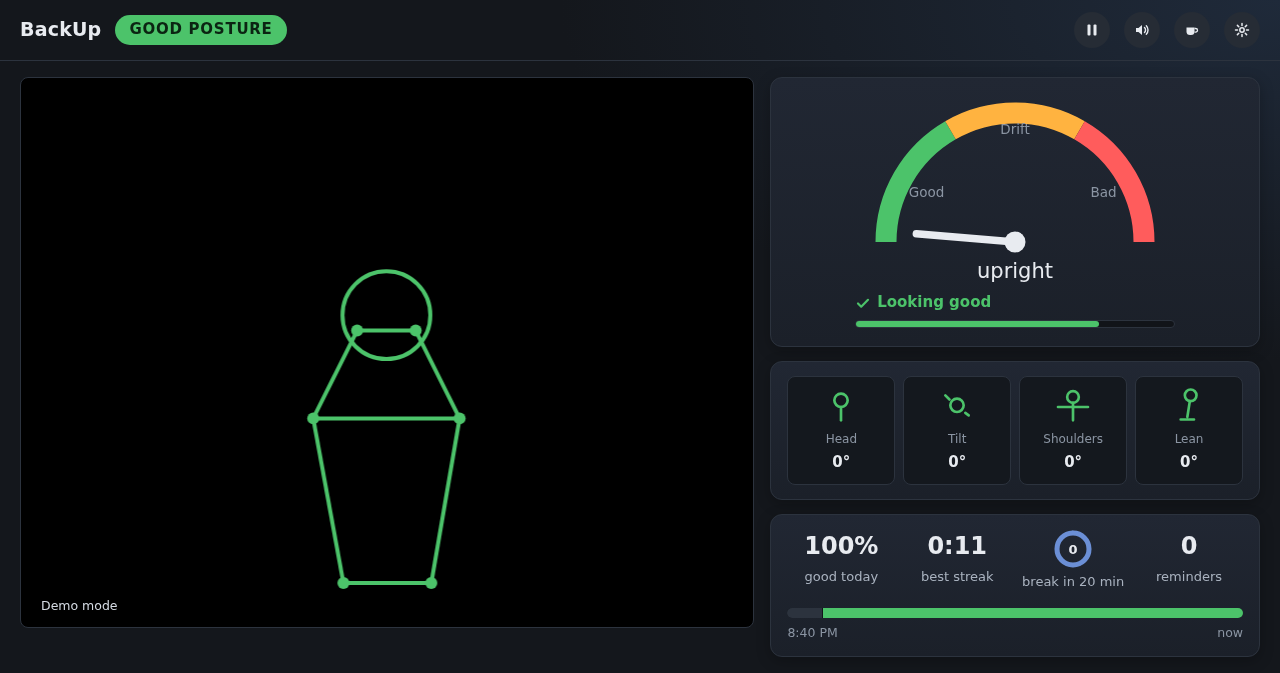
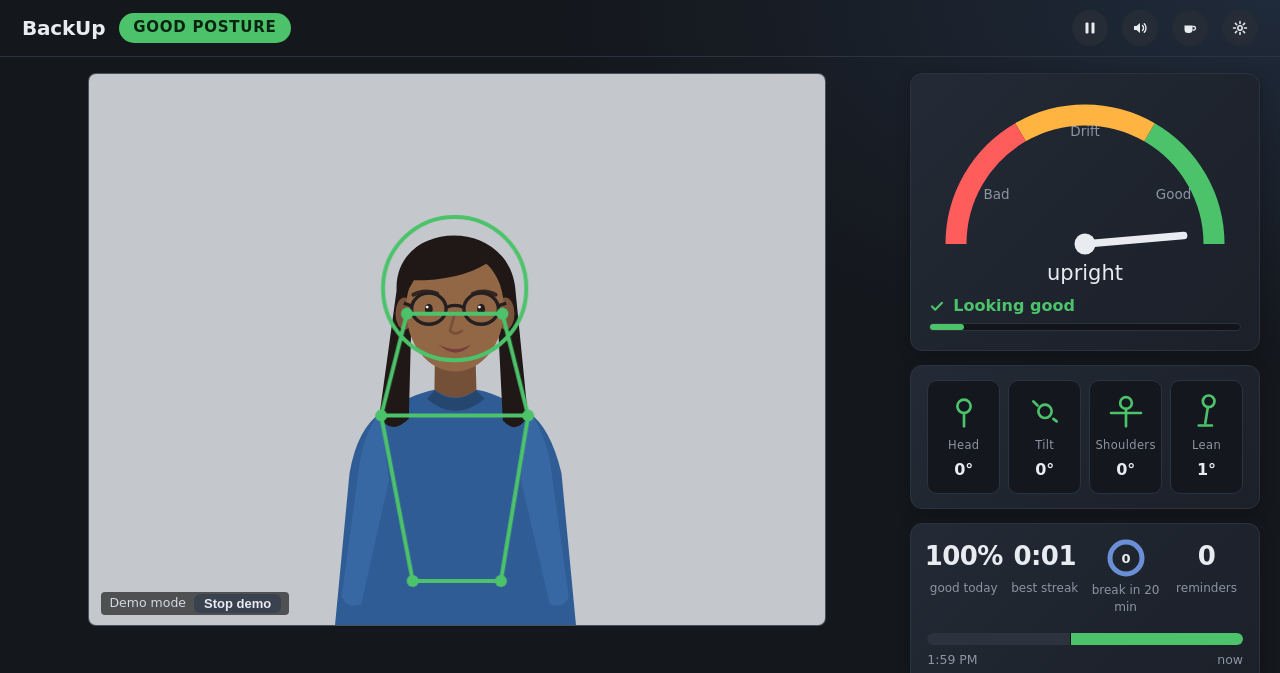
Mirror the gauge: good on the right, bad on the left (#136)
* Mirror the gauge: good on the right, bad on the left

* e2e: gauge direction

* Refresh app-desktop screenshot for the mirrored gauge

* Refresh app-phone screenshot for the mirrored gauge

* Refresh og-image screenshot for the mirrored gauge

diff --git a/docs/app/index.html b/docs/app/index.html
@@ -588,13 +588,16 @@
     <div class="panel finding" id="finding" data-stage="1" hidden>Finding you&hellip;</div>
     <div class="panel gauge coaching" id="gauge" data-stage="2" hidden>
       <svg viewBox="0 0 200 128" style="width:100%;max-width:300px;display:block;margin:0 auto" id="gauge-svg" role="img" aria-label="Posture: waiting">
+        <!-- Mirrored (Ari): good on the right, bad on the left. The needle keeps its angle maths and is flipped with the arcs. -->
+        <g transform="translate(200 0) scale(-1 1)">
         <path d="M14 100 A 86 86 0 0 1 57 25.5" fill="none" stroke="#4cc36a" stroke-width="14"/>
         <path d="M57 25.5 A 86 86 0 0 1 143 25.5" fill="none" stroke="#ffb340" stroke-width="14"/>
         <path d="M143 25.5 A 86 86 0 0 1 186 100" fill="none" stroke="#ff5c5c" stroke-width="14"/>
-        <text x="41" y="70" text-anchor="middle" font-size="9" fill="#8b95a3" aria-hidden="true">Good</text>
+        </g>
+        <text x="159" y="70" text-anchor="middle" font-size="9" fill="#8b95a3" aria-hidden="true">Good</text>
         <text x="100" y="28" text-anchor="middle" font-size="9" fill="#8b95a3" aria-hidden="true">Drift</text>
-        <text x="159" y="70" text-anchor="middle" font-size="9" fill="#8b95a3" aria-hidden="true">Bad</text>
-        <g id="needle-rotor" transform="rotate(0 100 100)"><line x1="100" y1="100" x2="34" y2="100" stroke="#e8ebf0" stroke-width="5" stroke-linecap="round"/></g>
+        <text x="41" y="70" text-anchor="middle" font-size="9" fill="#8b95a3" aria-hidden="true">Bad</text>
+        <g transform="translate(200 0) scale(-1 1)"><g id="needle-rotor" transform="rotate(0 100 100)"><line x1="100" y1="100" x2="34" y2="100" stroke="#e8ebf0" stroke-width="5" stroke-linecap="round"/></g></g>
         <circle cx="100" cy="100" r="7" fill="#e8ebf0"/>
         <text id="needle-text" x="100" y="124" text-anchor="middle" font-size="14" fill="#e8ebf0">--</text>
       </svg>

diff --git a/docs/app/sw.js b/docs/app/sw.js
@@ -11,7 +11,7 @@
 // changes whenever a precached file changes, which makes the browser update it.
 // Plain script (not a module): the constants below mirror offline.js.
 
-const PRECACHE_VERSION = "691e589029b60aa8";
+const PRECACHE_VERSION = "45d47fef8662775b";
 const CACHE_PREFIX = "posture-guard-";
 // One cache per release. The worker only ever reads and writes its own cache,
 // so an update never changes what the currently active worker serves.
